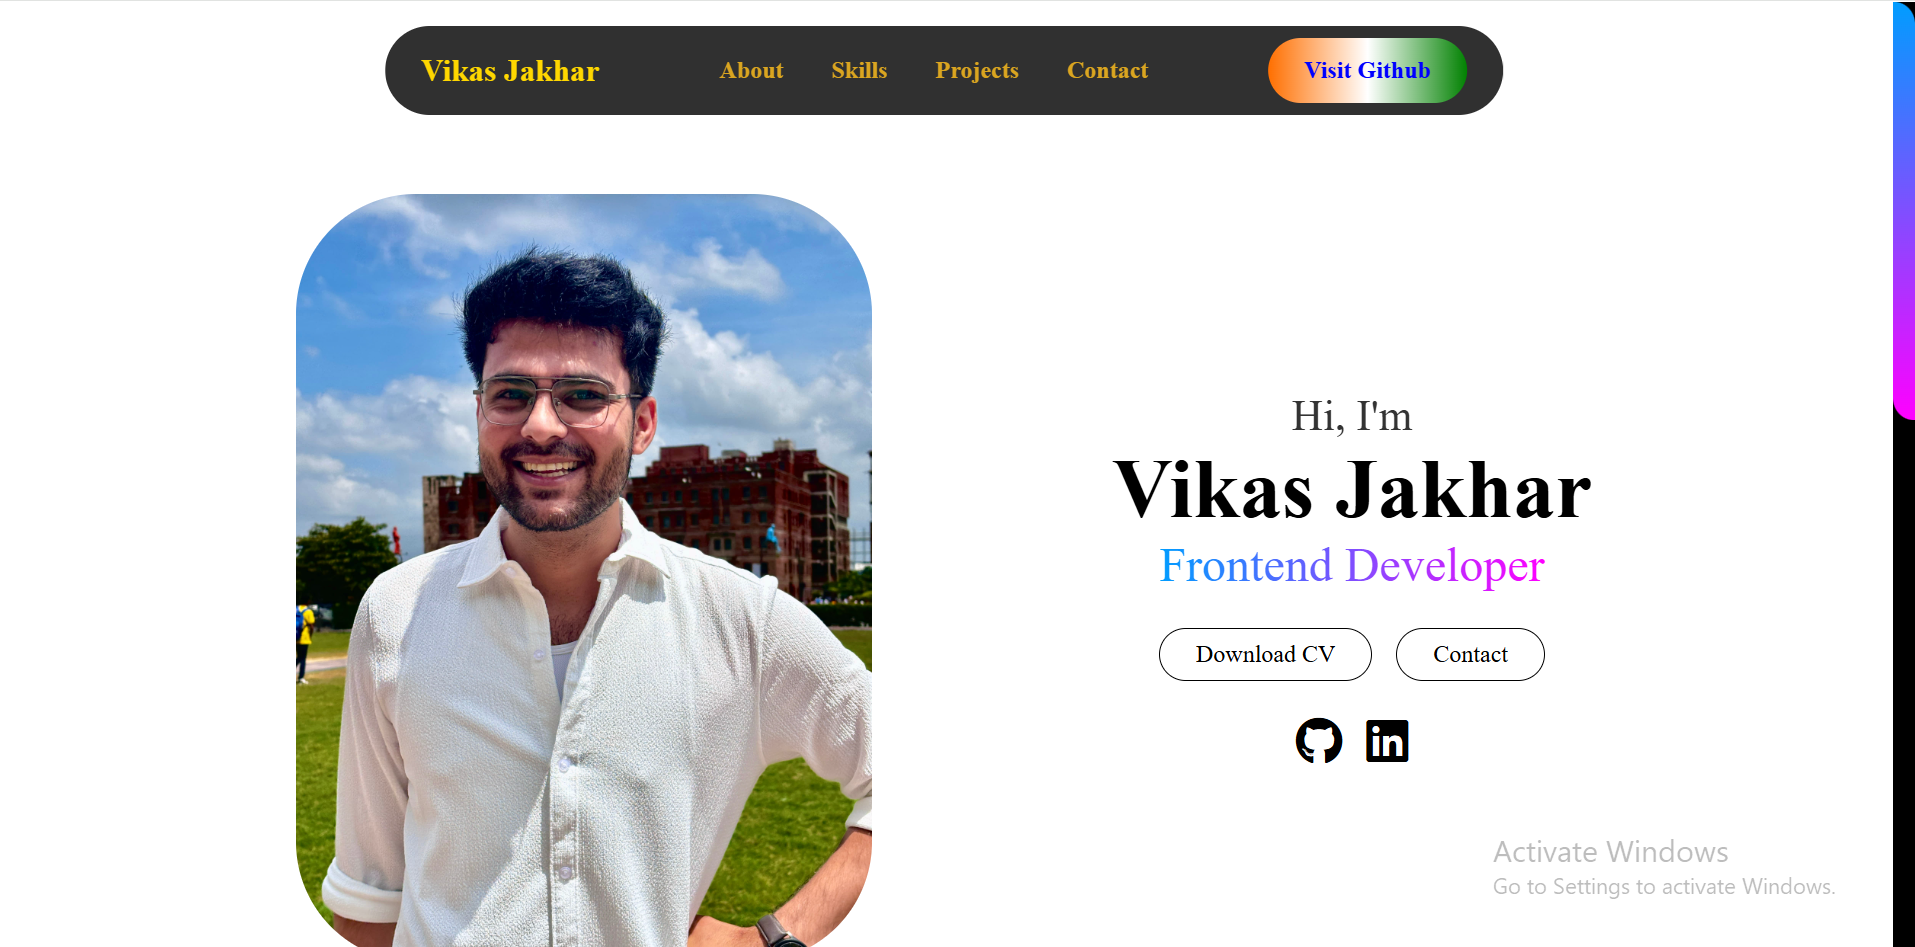
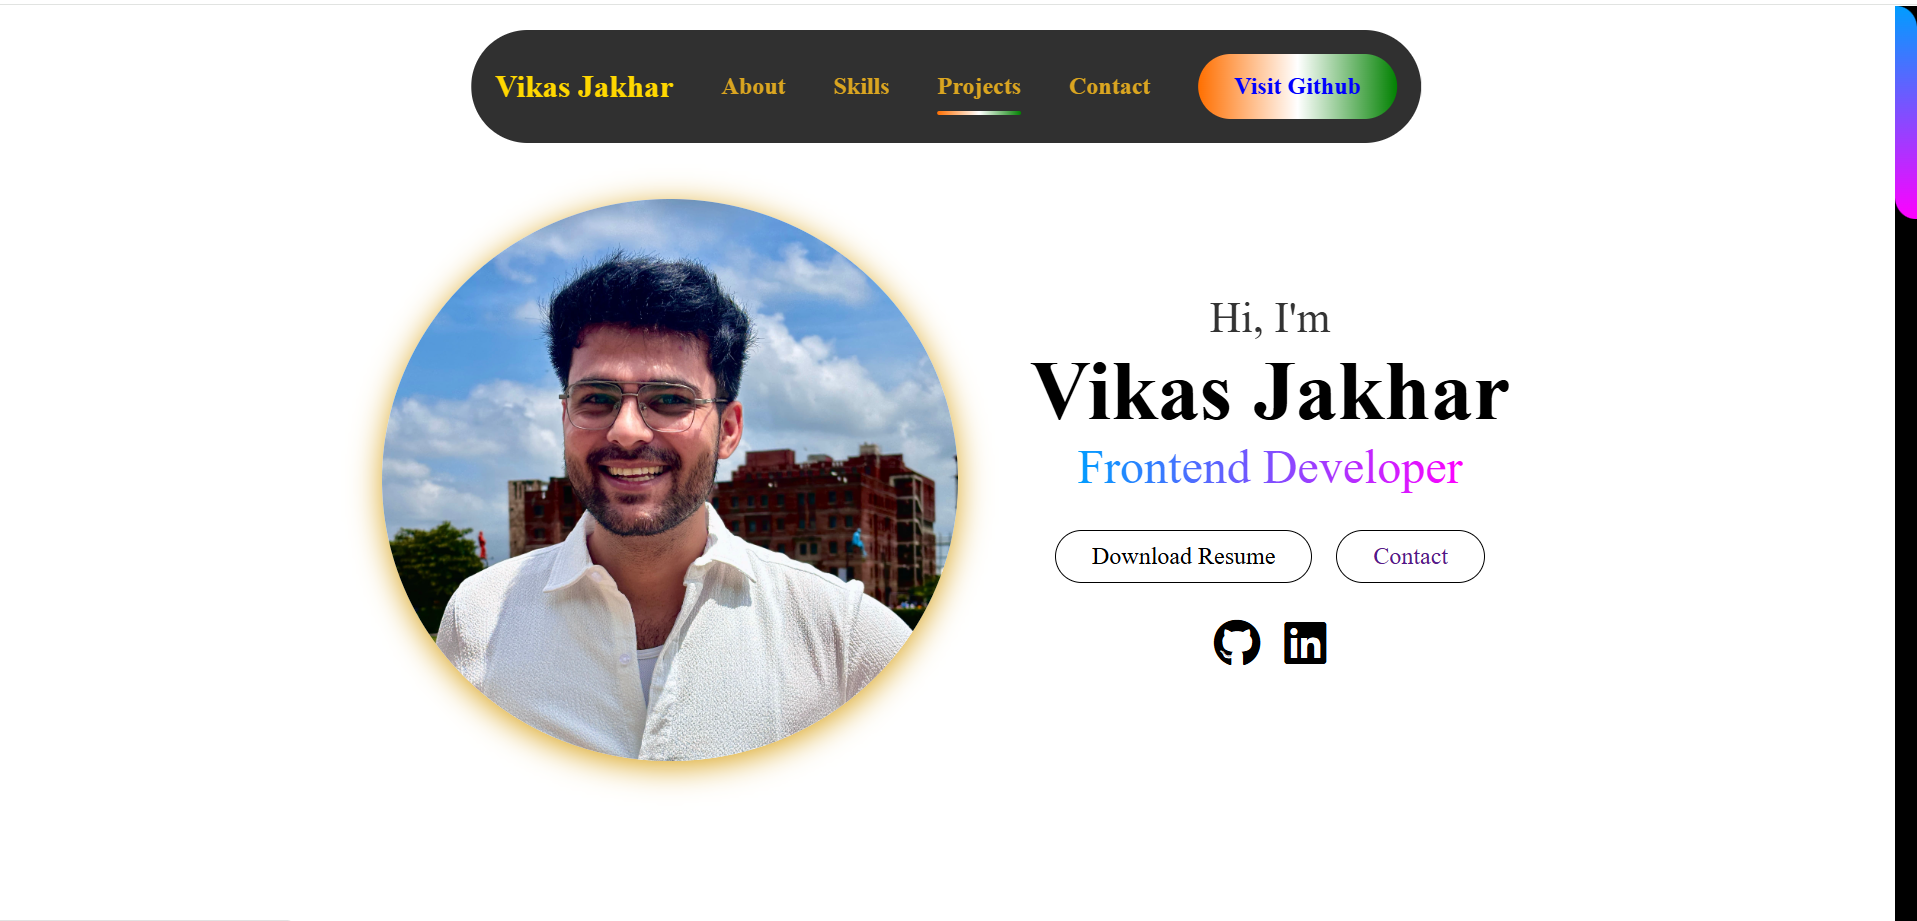
edited profilepic border

diff --git a/index.html b/index.html
@@ -37,7 +37,7 @@
     <!-- about section  -->
     <section id="about" class="about">
       <div class="about-container">
-        <img src="Images/profile.jpg" alt="profilePic" />
+        <img src="Images/ProfilePic.jpg" alt="profilePic" />
         <div class="info-box">    
           <div class="text">
             <h3>Hi, I'm</h3>

diff --git a/portfolio.css b/portfolio.css
@@ -91,7 +91,8 @@ section{
 }
 .about img{
   width: 30vw;
-  border-radius:5rem;
+  border-radius: 50%;
+  box-shadow: 0 4px 20px goldenrod;
 }
 .info-box{
   display: flex;
